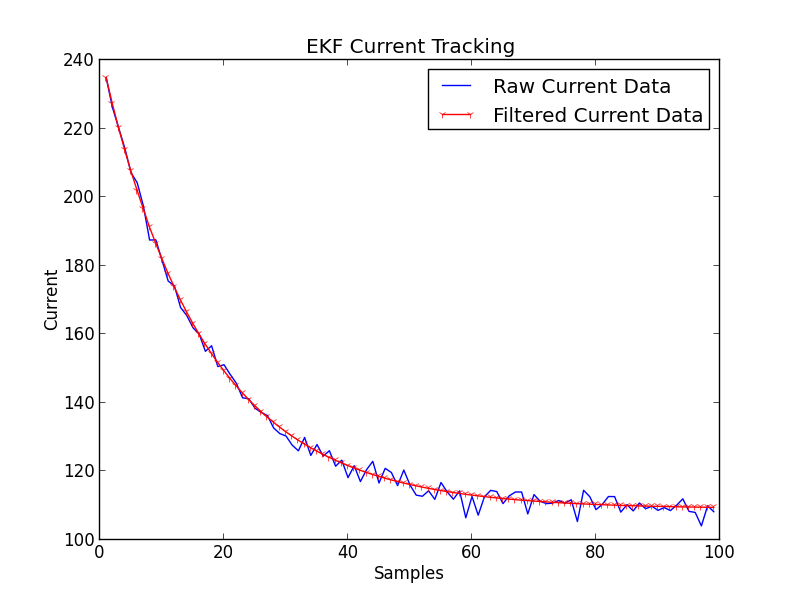
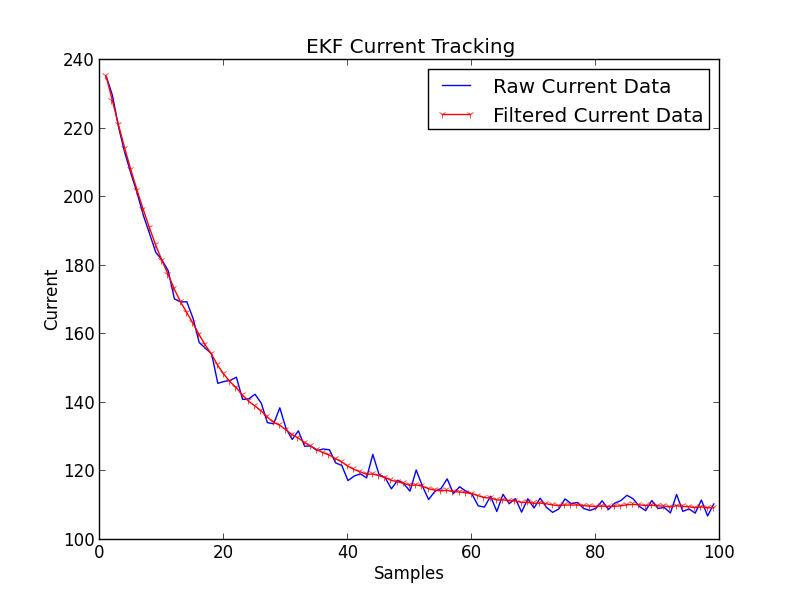
Added process noise

diff --git a/ekf.py b/ekf.py
@@ -64,7 +64,7 @@ class ExtendedKalman():
 	"""
 	Nonlinear Kalman Filter Implementation
 	"""
-	def __init__(self,initialObservation, numSensors, sensorNoise, stateTransitionFunction, sensorTransferFunction):
+	def __init__(self,initialObservation, numSensors, sensorNoise, stateTransitionFunction, sensorTransferFunction, processNoise, sprocessNoiseCovariance):
 		self.numSensors = numSensors
 		self.estimate = initialObservation  #current estimate, initialized with first observation
 		self.previousEstimate = initialObservation  #previous state's estimate, initialized with first observation
@@ -77,6 +77,8 @@ class ExtendedKalman():
 		self.fJac = nd.Jacobian(self.f) #jacobian of f
 		self.h = sensorTransferFunction  #sensor transfer function, from user input
 		self.hJac = nd.Jacobian(self.h) #jacobian of h
+		self.processNoise = processNoise;  #process noise
+		self.Q = processNoiseCovariance #process noise covariance
 
 	def predict(self):
 		"""
@@ -84,13 +86,13 @@ class ExtendedKalman():
 		Predicts estimate and error prediction according to model of the situation
 		"""
 		#update current state
-		self.estimate = self.f(self.previousEstimate)
+		self.estimate = self.f(self.previousEstimate) + self.processNoise
 
 		#find current jacobian value
-		jacVal = self.fJac(self.previousEstimate)
+		jacVal = self.fJac(self.previousEstimate) + self.processNoise
 
 		#update error prediction state
-		self.errorPrediction = np.dot(jacVal , np.dot(self.previousErrorPrediction,np.transpose(jacVal)))
+		self.errorPrediction = np.dot(jacVal , np.dot(self.previousErrorPrediction,np.transpose(jacVal))) + self.Q
 
 	def update(self,currentObservation):
 		"""
@@ -132,6 +134,8 @@ ammeter = sensors.Ammeter(0,2)
 stateTransfer = lambda x: np.array([[math.pow(x[0][0],1.01)],[math.pow(x[1][0],.99)+5]]) 
 sensorTransfer = lambda x: x 
 sensorNoise = np.array([[math.pow(3,2),0],[0,math.pow(2,2)]])
+processNoise = np.array([[0],[0]])
+processNoiseCovariance = np.array([[.1,0],[0,.1]])
 
 #result log holders
 x_vals = []
@@ -148,7 +152,7 @@ currentVal = ammeter.getData()
 #put them in a column vector
 initialReading = np.array([[voltVal],[currentVal]])  #values are column vectors
 #and initialize our filter with our initial reading, our 2 sensors, and all of the associated data
-kf = ExtendedKalman(initialReading,2,sensorNoise,stateTransfer,sensorTransfer)
+kf = ExtendedKalman(initialReading,2,sensorNoise,stateTransfer,sensorTransfer, processNoise, processNoiseCovariance)
 
 #now run the simulation
 for i in range(numSamples)[1:]:
